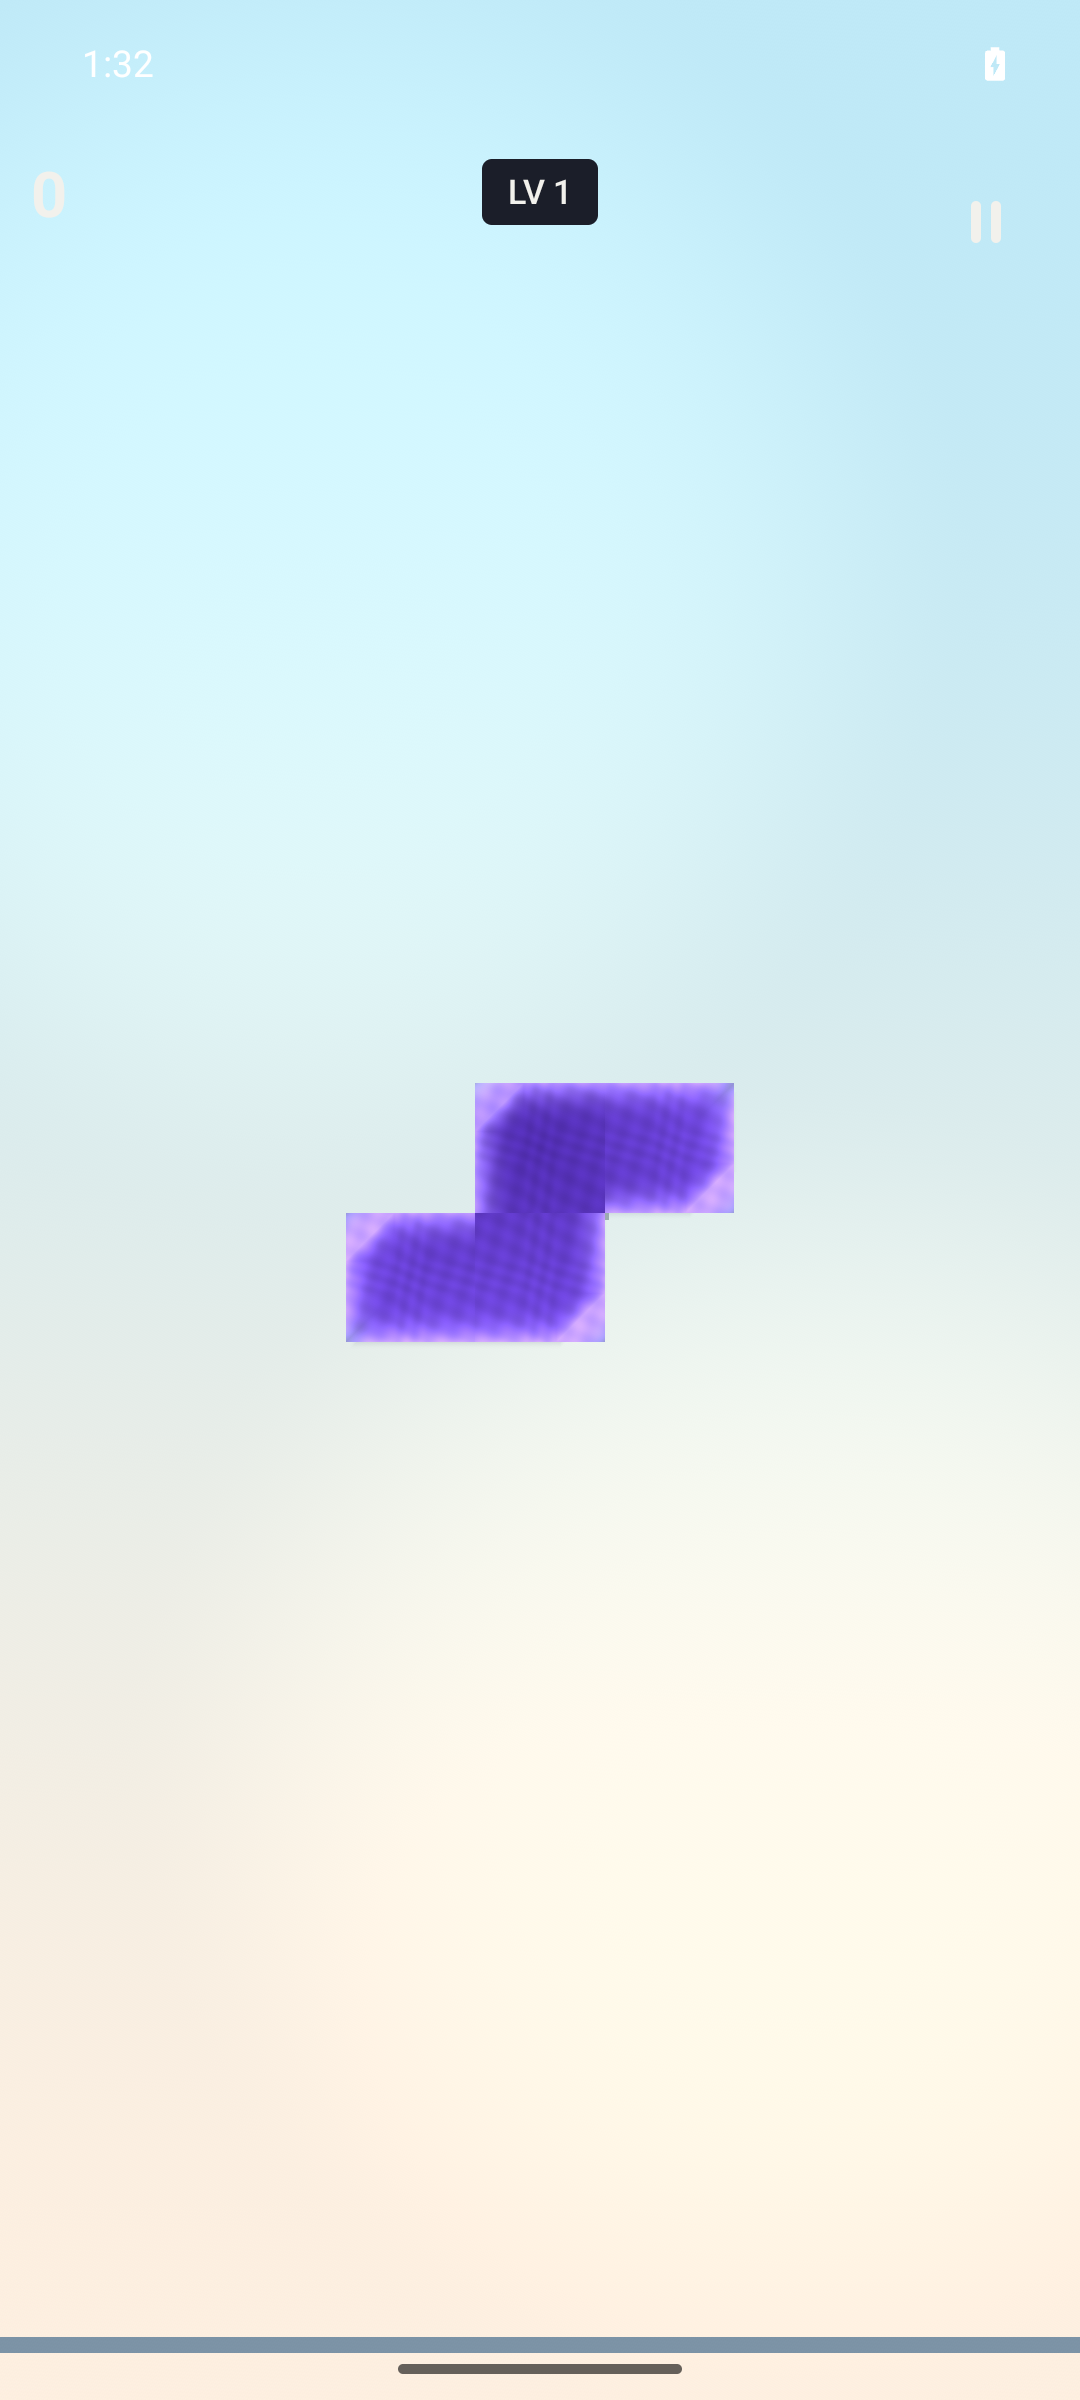
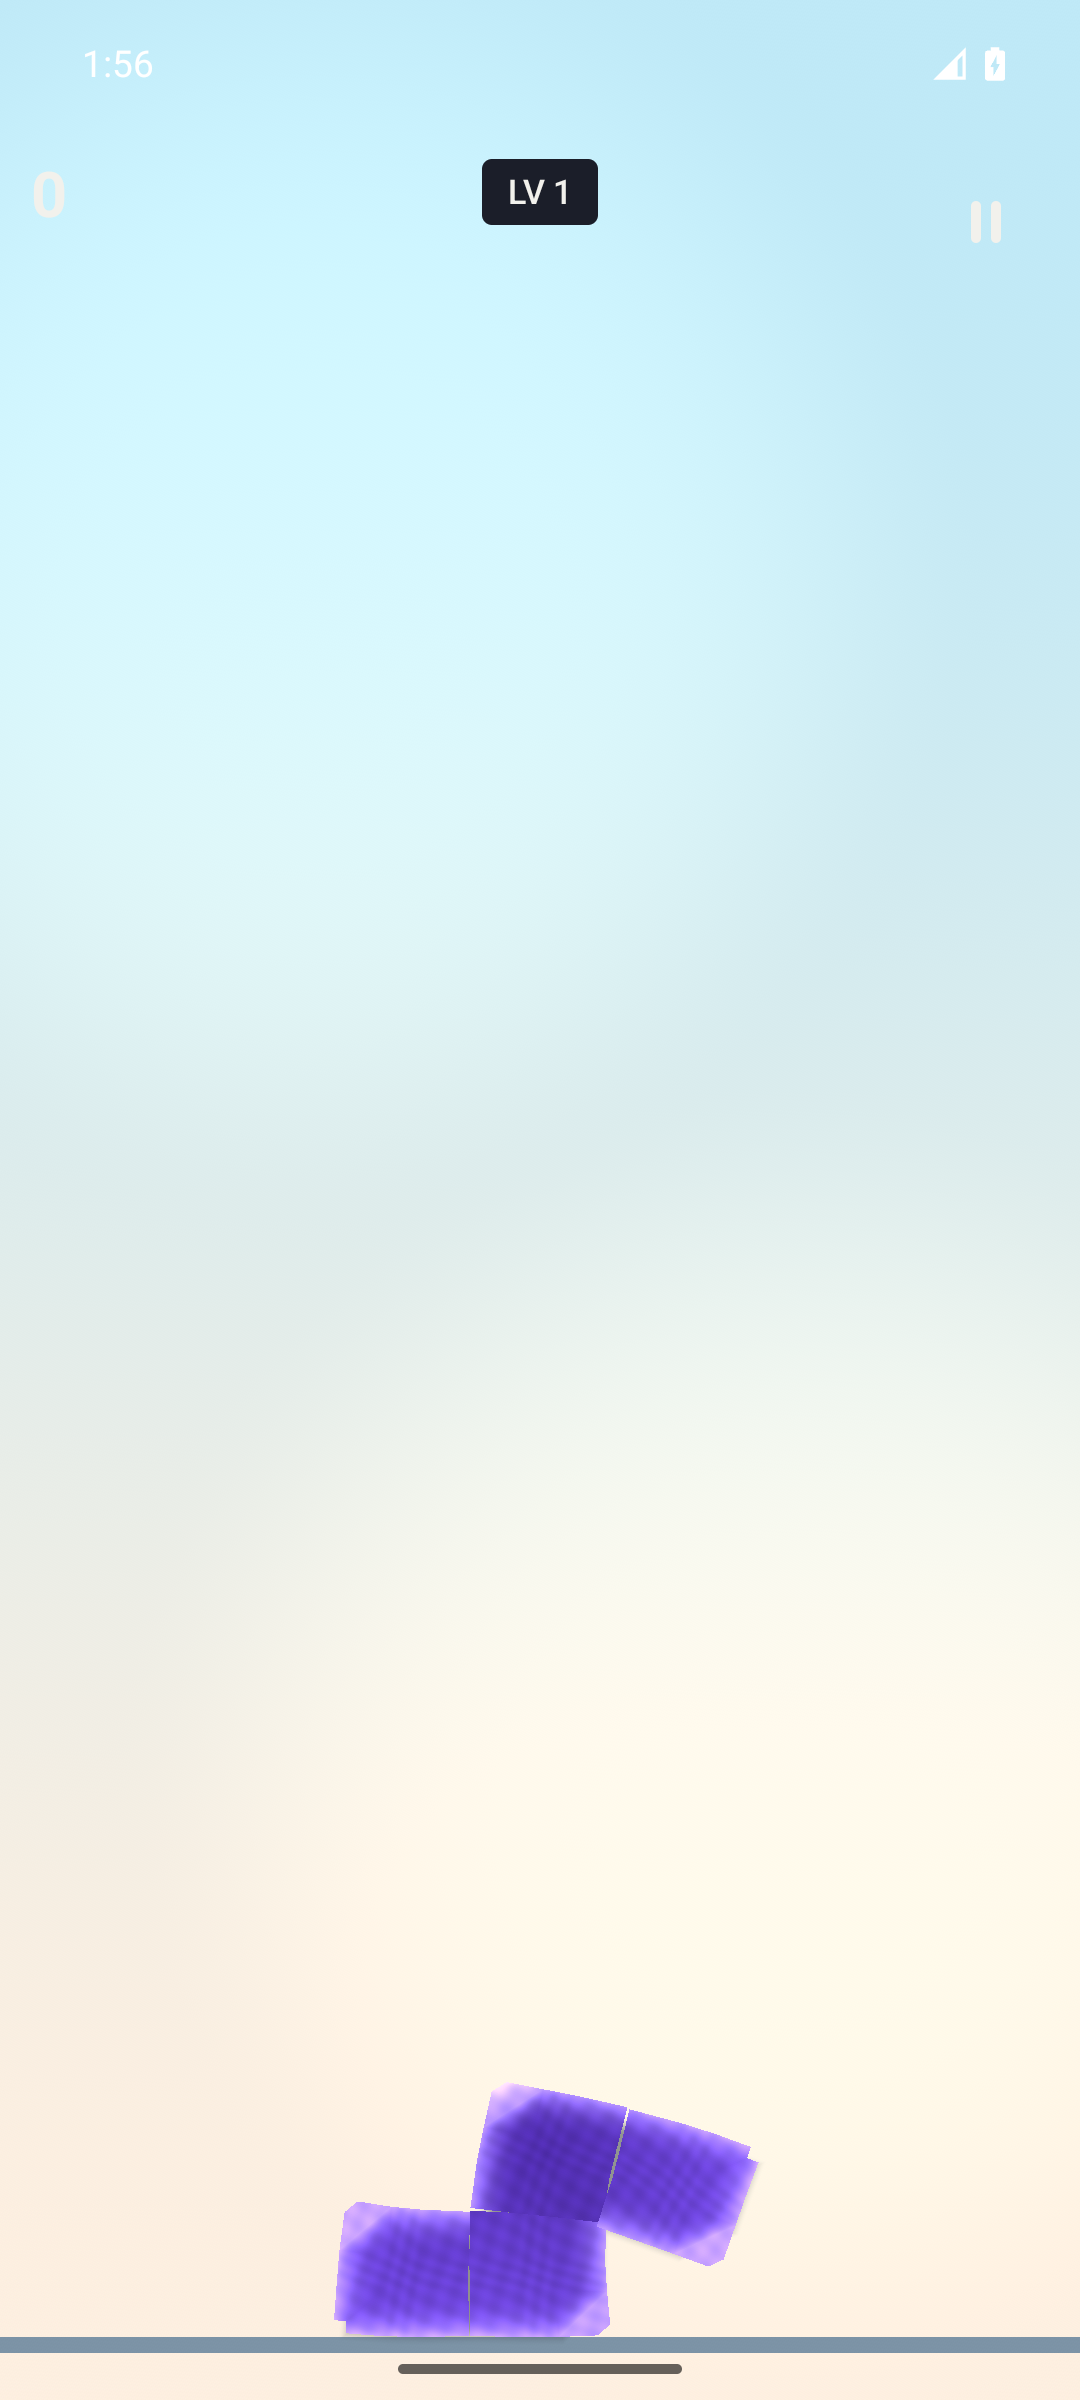
docs(team): refresh candy shots, hand off seam defect to backend

Changed region(s): [[0.3056, 0.8438, 0.7028, 1.0], [0.3056, 0.4375, 0.7028, 0.5625]]

diff --git a/.team/reviews/0037-candy-material-render/README.md b/.team/reviews/0037-candy-material-render/README.md
@@ -1,57 +1,56 @@
 # Glossy jelly candy render layer — money shots for the client
 
 Frontend Engineer, 2026-07-21. Branch `feat/candy-material-render` (from
-`feat/candy-material-datapath`, PR #30). These are for the Product Lead to view
-and show the client — the round-3 glossy-candy look the client is waiting to
-judge (`visual-direction.md` §13–§19).
+`feat/candy-material-datapath`, PR #31). Refreshed after the Product Lead's
+review of the first pass. For the Product Lead to view and show the client.
 
 **Correctness only — NOT an appearance or performance claim about the real
-device.** Captured on the software emulator (`-gpu swangle`, ANGLE-over-
-SwiftShader). Colour, gloss contrast, MSAA edge quality and the glow-patch and
-shadow brightness will all read differently on the client's Fairphone 6 OLED —
-several values below are explicitly first-pass and owed an on-device tune. What
-these frames DO prove: it launches, it renders, and the four asks read.
+device.** Captured on the software emulator (`-gpu swangle`). Colour, gloss
+contrast, MSAA/rounding quality and shadow/glow brightness all read differently
+on the client's Fairphone 6 OLED — several values are first-pass, owed a tune.
+
+## What changed since the first review (the PL's three asks)
+
+1. **Rounded corners — now visible.** Replaced the fade-to-tray (which read as a
+   dark corner smudge against the sky) with MSAA alpha-to-coverage: true
+   silhouette corners are softly rounded against ANY background — sky, tray, or
+   another piece. Verify on the O (all four corners round) and the L (rounds the
+   outline, stays sharp at the inner elbow). No blend, no discard.
+2. **Soft shadow — now reads.** Darkened the tray-toned shadow and enlarged the
+   offset so it's clearly visible under a piece against the light tray and sky.
+3. **Gloss on all pieces — widened.** The specular streak is broader so large
+   pieces (I, L) get a visible glint, not just the compact/blue ones.
 
 ## The frames
 
 | File | What it shows |
 |---|---|
-| `01-light-candy-world-empty.png` | The light candy world (§19): soft sky-blue → warm cream gradient, calm slate tray. Replaces the old dark-indigo canvas. |
-| `02-falling-piece-glossy-glint.png` | A falling rose J — one hard near-white specular glint sweeping the whole piece, translucent body, smooth surface (§14). Reads as one connected candy, not four tiles. |
-| `03-stack-cyan-on-green.png` | A cyan O resting on a green I — gloss glint on the O, both read as single connected candies, contact between them. |
-| `04-spawn-with-soft-shadow.png` | An azure piece with a soft tray-coloured shadow band beneath it (§18). |
-| `05-connected-L-and-I.png` | A green L: one continuous grain/highlight across all cells (the "four separate squares" complaint is fixed, §15), softened outer corners (§16). |
-| `06-settled-candy-on-tray.png` | A settled cyan candy sitting on the tray — glossy, translucent, grounded. |
+| `01-light-candy-world-empty.png` | The light candy world (§19). |
+| `02-L-rounded-corners-sharp-elbow-shadow.png` | Green L: outer corners rounded, **inner elbow stays sharp**, soft shadow beneath. |
+| `03-O-rounded-corners-shadow-and-remaining-seam.png` | Cyan O falling: four rounded corners + shadow. **Also shows the one thing still broken** — the internal "+" seam (see below). |
+| `04-settled-rounded-with-shadows.png` | Settled pieces: rounded, translucent, grounded by shadows. |
 
-## Does it hit the definition of done?
+## The one remaining defect — and why it's not mine to fix
 
-- **Glossy** — yes: a hard, high-contrast near-white specular streak (§14).
-- **Connected candy, not four tiles** — yes: body-wide UV means one continuous
-  grain/highlight/subsurface across the whole piece (§15, the client's literal
-  complaint).
-- **Rounded outer corners** — yes but subtle and the most tuning-dependent item;
-  see open questions.
-- **Translucent body** — yes: the raised subsurface term reads as jelly depth.
-- **Soft shadow** — yes, reads in mid-air/stacked configs; subtler for a piece
-  flush on the floor (physically correct). A softer *spread* is a flagged
-  follow-up.
-- **Light candy background** — yes.
+The internal cell seam (the dark "+" splitting the O into four) is **still
+there**. I traced it to source: it is NOT edge or contact darkening (both are
+correctly 0 on internal seams — verified at `SoftBodyWorld.kt:252` and
+`XpbdSolver.kt:449`). It is a **mesh-topology defect**: the render mesh is
+per-cell with no geometry bridging two cells, so abutting cells carry a
+one-grid-step UV discontinuity across every internal seam, and the grain/specular
+step across it.
 
-## Open questions for the client / on-device tune (see handoff 0037)
+This needs the Backend Engineer's mesh (seam-bridging geometry, or a unified
+tetromino lattice) — I can't fix it in the shader, and doing the topology change
+solo the day of a client demo is the wrong risk. Full diagnosis with line
+numbers is in **handoff 0038** (frontend → backend). The rounded outer corners
+do soften the overall "four squares" gestalt, but the internal cross is honest
+in frame 03 so you can judge whether to show the client now or hold for the mesh
+fix.
 
-1. **Corner rounding vs. the sky.** Corners fade toward the tray colour
-   (`corner-fade-mode`, §16's chosen compromise). Against the tray/other pieces
-   this softens the corner; on an *airborne* piece against the bright sky the
-   same fade reads as a faint dark corner fringe. Gain dialed back to keep it
-   gentle — but "how rounded" is the top client steer.
-2. **Glow-patch brightness (§19).** The two sky glow patches are sane first-pass
-   values, NOT measured on the panel — a bright additive patch on a bright field
-   under-reads the opposite way the old dark-on-dark discs did.
-3. **Shadow spread (§18).** Offset + edge-feather only; no per-body-centroid
-   outward scale (the mesh carries no centroid). A soft blurred spread is the
-   follow-up if the client wants more.
-4. **MSAA cost (§17).** 4× requested with graceful fallback. Its real bandwidth
-   cost, stacked with the shadow pass and the full-screen background, is only
-   measurable on the phone via the frame-time readout.
-5. **Palette is a first pass** — hues unchanged from `piece-identity.md`; the
-   client steers colours next.
+## Still first-pass / owed on-device (handoff 0037)
+
+- Sky glow-patch brightness (§19) — not measured on the panel.
+- Specular is still somewhat shape/position-dependent (single fixed streak).
+- MSAA + shadow + full-screen background frame cost — only the phone can price it.
+- Palette hues unchanged; the client steers colours next.

diff --git a/.team/handoffs/0038-frontend-engineer-to-backend-engineer.md b/.team/handoffs/0038-frontend-engineer-to-backend-engineer.md
@@ -1,0 +1,70 @@
+# Frontend Engineer → Backend Engineer: the internal cell seam is a mesh-topology defect
+
+**Context:** glossy-candy render, PR #31. The client's loudest complaint —
+multi-cell pieces still "read as four squares" — survives on the O as a dark "+"
+splitting it into four cells. I traced it to source (measured, not recalled) and
+it is a mesh-topology issue on the boundary between our modules, not shading.
+Flagging straight to you per the team norm; I tried `SendMessage` first but no
+backend agent was live.
+
+## What it is NOT (ruled out by reading the code)
+
+- **Rim / edge darkening.** `SoftBodyWorld.kt:252` sets `shapeEdge` to 0 on
+  seam-facing edges (`freeLeft/Right/Down/Up` are false there). The rim reads
+  `vEdge`, so it does not draw internal seams. Correct.
+- **Contact / AO darkening.** `XpbdSolver.kt:449` — `if (world.particleBody[j]
+  == bodyI) continue` — skips same-body pairs, so `particleContact` is 0 on
+  internal seams. Correct.
+- **Subsurface.** `min(uv, 1-uv)` is symmetric about 0.5, so it does not step
+  across a seam at the piece centre. Not the cause.
+
+## What it IS
+
+The render mesh is **per-cell** (ADR 0007/0015: each cell is its own `lattice²`
+index block; there are no triangles bridging two cells). Your body layout
+(`SoftBodyWorld.kt:237-244`) places adjacent cells one `spacing` apart on a
+continuous grid with continuous UV — so *within* a bridged region the UV would
+interpolate seamlessly. But because the two cells are separate meshes with no
+bridging quad, their facing edge columns (gcol `L-1` uv `a`, gcol `L` uv `a +
+1/maxSpan`) never get interpolated across — the shading (grain, specular)
+**steps** by one grid unit right at the seam. That step is the visible "+".
+
+My `VertexFill.extrudeBoundary` makes it worse but is not the root: written for
+single-cell Milestone-1 bodies (`particlesPerBody = lattice*lattice`), it
+extrudes *every* cell's outer ring, so it pushes both facing seam columns to the
+seam midpoint and collapses them coincident. That fills the 2r gap (good) but
+puts the uv discontinuity right at the join.
+
+Body-wide UV (your §15 work) fixed *within-cell* continuity beautifully — grain
+and highlight now sweep the whole piece. The seam is the one thing UV alone
+can't fix, because it's a missing-geometry problem.
+
+## What I need from you (the fix is yours)
+
+Either:
+- **(a) Bridge adjacent cells with seam quads** in the index/topology so UV
+  interpolates continuously across the seam; **and** expose per-particle,
+  per-direction free-edge info (right now `:app` only gets the OR'd
+  `particleEdge`) so my `extrudeBoundary` can push ONLY true silhouette edges and
+  leave the seams to the bridge; **or**
+- **(b) Build a tetromino as one continuous footprint lattice mesh** instead of
+  four separate cell blocks — then seams are interior lines with full bridging
+  and the problem disappears entirely.
+
+Both are ADR-0015 / topology territory. `LatticeTopology` + `BodyMesh`'s single
+static index pattern would need to become per-archetype (or bridged), which is
+why I'm not doing it solo under demo pressure — it's a contract change I'd want
+to design with you and the Architect, with tests. Happy to own the `:app` half
+(the extrusion change + the bridged index upload) once the core exposes cell
+adjacency / per-direction edges. Let's pair on the contract.
+
+## What I did NOT do
+
+- I did not touch the extrusion's seam-collapse in this pass — removing it
+  without a bridge would open a 2r gap (worse). Left as-is until the bridge
+  exists.
+- Everything else in PR #31 (specular, rounded corners via alpha-to-coverage,
+  soft shadow, light world) is shading/render-only and does not depend on this.
+
+---
+*Handoff from the **Frontend Engineer**.*